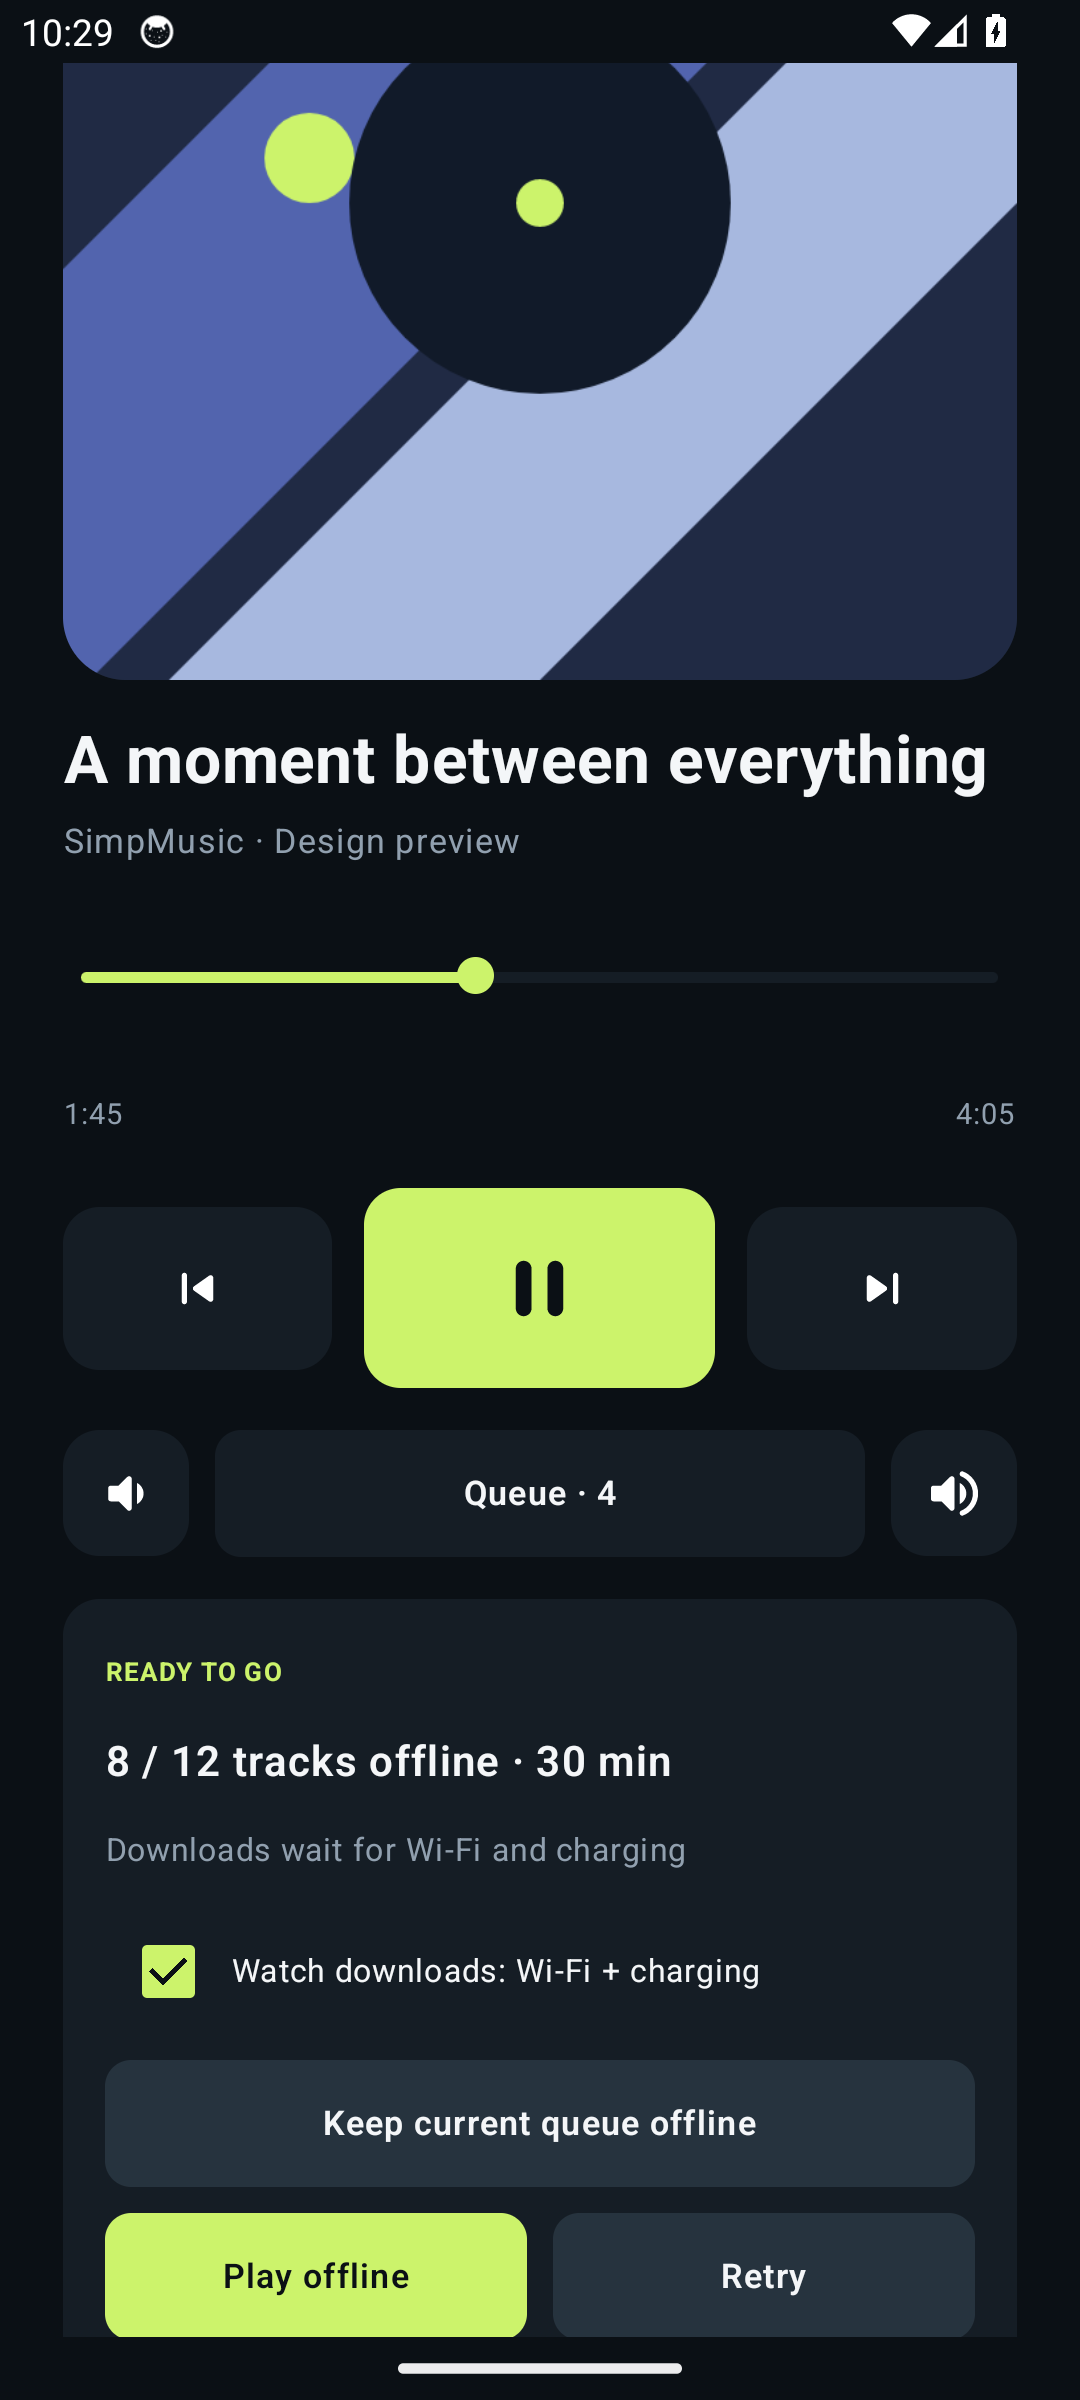
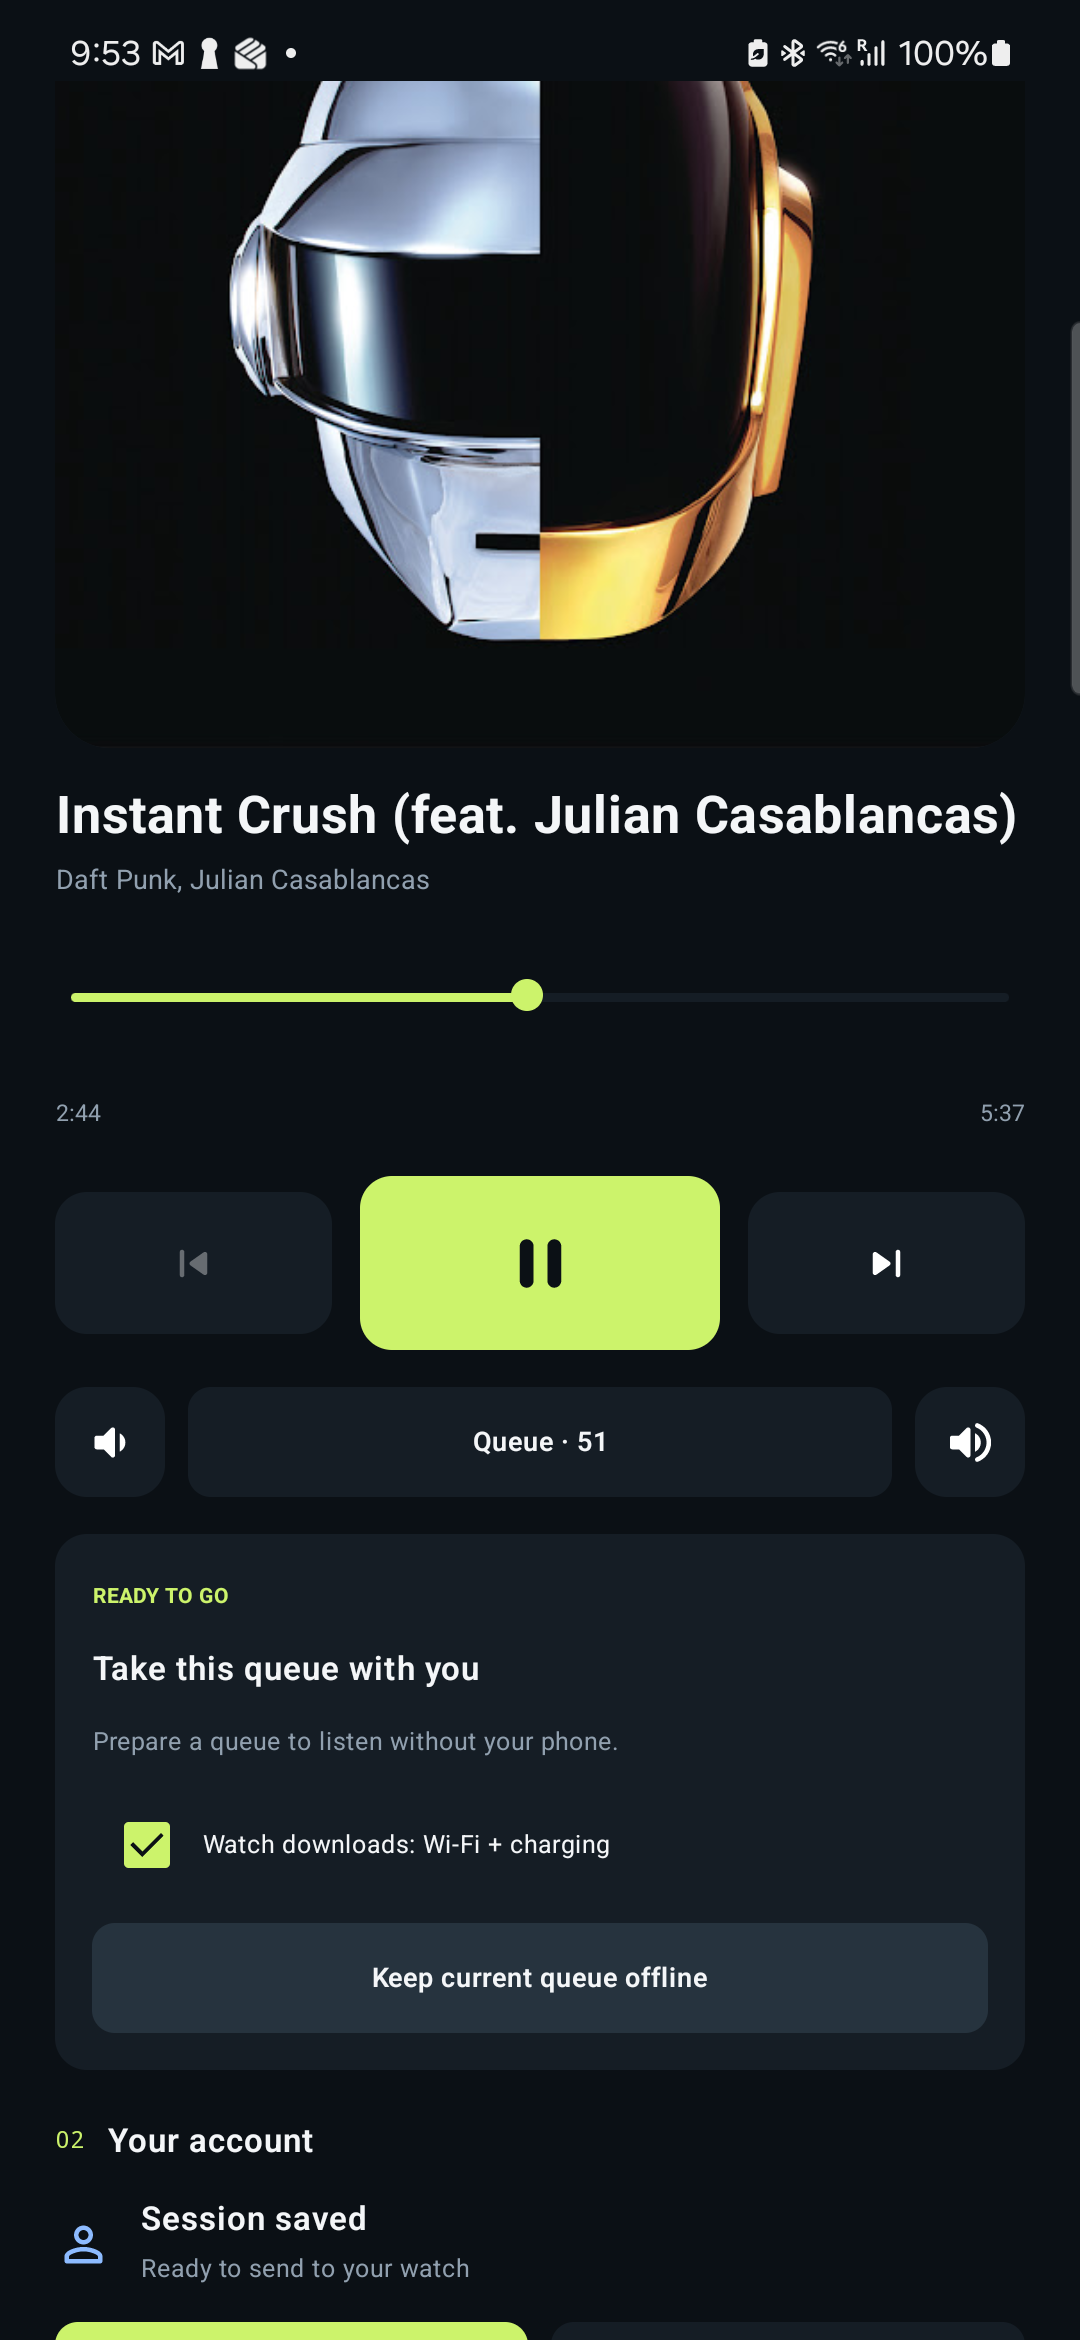
Refresh the README with real watch and companion captures

diff --git a/docs/release-checklist.md b/docs/release-checklist.md
@@ -6,8 +6,8 @@ Status for `0.3.0-beta.1` (version code 41), updated October 19, 2026.
 
 ## Build and tests
 
-- [x] Validate the domain, common, scraper, watch, companion and full-phone Foss unit suites: 94 regression cases. The affected scraper and watch suites pass all 42 tests; the final sheet changes also pass the watch suite.
-- [x] Run the release-tool suite: 14 tests pass, including artifact integrity, public package identity and draft-only creation.
+- [x] Validate the domain, common, scraper, watch, companion and full-phone Foss unit suites: 103 regression cases. The latest affected common, scraper, watch and companion run passes all 99 cases, including nine phone-update regressions.
+- [x] Run the release-tool suite: 15 tests pass, including artifact integrity, public package identity, retained signing certificate and draft-only creation.
 - [x] Compile both Foss and Full phone Kotlin variants.
 - [x] Build watch and companion debug APKs, instrumentation APKs and minified release APKs.
 - [x] Run watch and companion debug/release lint; review remaining warnings.
@@ -31,15 +31,16 @@ There are no lint errors or fatal issues. Emulator input checks supplement the p
 - [x] Confirm release APKs are non-debuggable and exclude preview activities.
 - [x] Verify session-containing app data is excluded from Android backup and device transfer.
 - [x] Exercise package/version/certificate checks, checksums and rejection of test packages, debug keys, mismatched pairs and stale output directories.
-- [ ] Sign final public APKs with the retained production key and confirm watch/phone package names and certificates match.
-- [ ] Back up the signing key and credentials securely; configure repository signing secrets.
-- [ ] Verify hashes and the release manifest against the exact APKs to be uploaded.
+- [x] Sign the public APK candidates with the retained production key and confirm watch/phone package names and certificates match.
+- [x] Verify an independent encrypted signing-key backup and save its recovery password separately.
+- [ ] Configure repository signing secrets before using the hosted release workflow.
+- [x] Verify hashes and the release manifest against the four locally packaged APK candidates.
 
 ## Physical-device validation
 
 Use minified APKs signed with the same key on the watch and phone.
 
-Completed checks used an isolated minified build on a Galaxy Watch4 Classic (API 34, ARMv7) paired with a Galaxy S23 (API 34). Public APK signing and upload verification remain separate checks above.
+Completed checks used minified builds on a Galaxy Watch4 Classic (API 34, ARMv7) paired with a Galaxy S23 (API 34). Earlier checks used an isolated package; the public package pair has also been installed, signed in and connected successfully. It streamed music and handled a companion Pause command. The extended public-package playback and offline checks remain open below.
 
 - [x] Search and stream as a guest, seek forward and continue to the next queued track without a playback error.
 - [ ] Repeat sustained streaming, buffering and retry checks with a signed-in account.
@@ -61,12 +62,15 @@ Completed checks used an isolated minified build on a Galaxy Watch4 Classic (API
 - [x] Start watch playback from the phone with the watch UI closed and confirm its media session remains active.
 - [ ] Repeat remote playback after the watch process has been reclaimed.
 - [x] Sign out on the watch, confirm Guest mode after relaunch, then restore the session from the companion with an applied acknowledgement.
-- [ ] Complete fresh Google sign-in and the full phone/watch sign-out and revoke flow.
+- [x] Complete fresh Google sign-in and acknowledge session synchronization on the public watch/companion package pair.
+- [ ] Complete the full phone/watch sign-out and revoke flow.
 - [ ] Check stale remote commands, queue ordering and library synchronization with local watch changes.
 - [ ] Check restricted/unavailable media and useful error/retry behavior.
-- [ ] Measure cold start, player frame behavior and memory use.
+- [ ] Measure watch cold start, player frame behavior and memory use. The companion's three measured cold activity launches were 154–158 ms; that does not measure watch performance.
 - [x] Update the isolated test apps in place and retain their session and verified offline download.
 - [ ] Install over the previous publicly supported version with its retained signing key and verify settings, library and downloads.
+
+The new fork package is a separate install from older packages. Their data is not transferred automatically. The signed public candidates install alongside the original apps; an in-place public-package update with persisted downloads still needs verification.
 
 ## Publication
 

diff --git a/asset/readme/current/README.md b/asset/readme/current/README.md
@@ -1,12 +1,14 @@
-# Current UI previews
+# App screenshots
 
-Captured October 18, 2026 from the debug-only preview activities in this checkout:
+Captured October 19, 2026 from `0.3.0-beta.1` release builds on a Galaxy Watch4 Classic and Galaxy S23, both running Android 14.
 
-- `watch-player.png` and `watch-queue.png`: Wear OS API 33 emulator, 454 × 454 pixels, normal text size. These use the production player and queue-row components.
-- `companion-player.png` and `companion-offline.png`: Android API 34 emulator, 1080 × 2400 pixels. These use the production dashboard with sample playback, connection and offline-queue state.
+- `watch-player.png`: music playing on the watch.
+- `watch-controls.png`: the player drawer's playback controls.
+- `companion-player.png`: the companion following the watch's active player.
+- `companion-offline.png`: playback controls and offline queue preparation.
 
-The geometric album artwork is the project's preview asset. Music, watch connection and download state are fixtures, not an active device session. No account data is used. Preview activities are excluded from release APKs.
+These show a real playback session. The offline panel offers to download the current queue; it does not show a completed download.
 
-To refresh these, install matching debug builds on emulators, launch `WearPreviewActivity` with `--es mode player` or `--es mode queue`, and launch `CompanionPreviewActivity` for the dashboard. Disable Android's **Show taps** and **Pointer location** options before capturing with `adb exec-out screencap -p`. Capture the companion player promptly: its sample expires like a real stale playback snapshot. Scroll down for the offline panel.
+Captured using [WearCapture](https://github.com/Rahyan/WearCapture). Watch images use its circular display mask; phone images retain the full screenshot. The tool's scrolling capture was also used to inspect the watch's Downloads page.
 
-Replace these files when the UI changes, and update this note with the capture date and whether real devices or previews were used.
+When refreshing the gallery, use matching builds on the watch and phone, capture the current UI, and review the images for account details before adding them here.

diff --git a/README.md b/README.md
@@ -27,15 +27,15 @@ This fork uses its own package name, `io.github.rahyan.simpmusicwear`, and can b
 
 ## Screenshots
 
-| Watch player | Queue |
+| Watch player | Player controls |
 | --- | --- |
-| <img src="asset/readme/current/watch-player.png" alt="Round watch player" width="240"> | <img src="asset/readme/current/watch-queue.png" alt="Watch queue" width="240"> |
+| <img src="asset/readme/current/watch-player.png" alt="Watch playing Instant Crush" width="240"> | <img src="asset/readme/current/watch-controls.png" alt="Watch player drawer controls" width="240"> |
 
-| Companion player | Offline queue |
+| Companion player | Playback and offline controls |
 | --- | --- |
 | <img src="asset/readme/current/companion-player.png" alt="Companion player" width="260"> | <img src="asset/readme/current/companion-offline.png" alt="Companion offline queue panel" width="260"> |
 
-Emulator previews using sample music and watch data. [About the screenshots](asset/readme/current/README.md).
+Captured on a Galaxy Watch4 Classic and Galaxy S23. Watch screenshots captured with [WearCapture](https://github.com/Rahyan/WearCapture). [Capture details](asset/readme/current/README.md).
 
 ## Install and sign in
 
